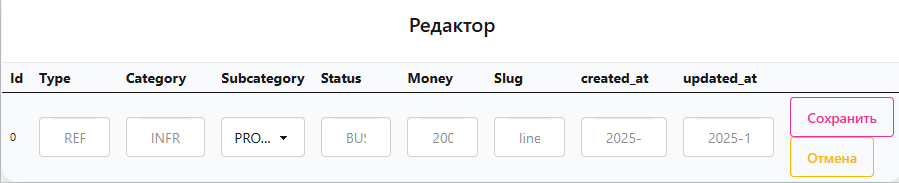
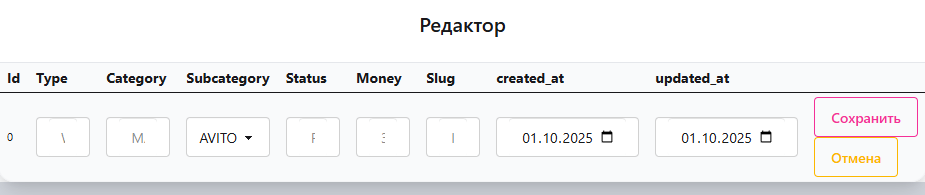
[master]: Settings component was updated

diff --git a/src/app/components/Settings/index.tsx b/src/app/components/Settings/index.tsx
@@ -1,23 +1,31 @@
 /**
  * src\app\components\Settings\index.tsx
  */
-import {JSX, useState } from 'react';
+import { format } from 'path';
+import {JSX, useEffect, useRef } from 'react';
 import Button from 'src/components/fields/Button';
 import Input from 'src/components/fields/InputEmpty';
 export function SettingsFC({...props}): JSX.Element {
     const {flow, type, category, subcategory, 
         status, money, slug, created_at, updated_at } = props.props;
-    const setSettings = props.usesetting;
+    // GET COMPOMEMTS OF FORMS & DATA
     const inputTypeField = () => <Input placholderText={type.content} />;
     const inputCategoryField = () => <Input placholderText={category.content} />;
     const inputStatusField = () => <Input placholderText={status.content} />;
     const inputMoneyField = () => <Input placholderText={money.content} />;
     const inputSlugField = () => <Input placholderText={slug.content} />;
-    const inputCreated_atField = () => <Input placholderText={created_at.content} />;
-    const inputUpdated_atField = () => <Input placholderText={updated_at.content} />;
-     
+    const inputCreated_atField = () => <Input typeName='date'  classes = 'created_at input input-neutral'  placholderText={created_at.content} />;
+    const inputUpdated_atField = () => <Input typeName='date' classes = 'updated_at input input-neutral' placholderText={updated_at.content} />;
     const buttonField = () => <Button contentButton={"Сохранить"} classes={"btn btn-outline btn-secondary"} classesDiv={''} />;
-    const buttonCansField = () => <Button contentButton={"Отмена"} classes={"btn btn-outline btn-warning"} classesDiv={''} />;
+    const buttonCansField = () => <Button contentButton={"Отмена"}  classes={"btn btn-outline btn-warning"} classesDiv={''} />;
+    useEffect(() =>{
+        // INSER THE DATE IN THE INPUTS
+        const created_atDate = new Date(created_at.content);
+        const updated_atDate = new Date(updated_at.content);
+        (document.getElementsByClassName("created_at")[0] as HTMLInputElement).valueAsDate=created_atDate;
+        (document.getElementsByClassName("updated_at")[0] as HTMLInputElement).valueAsDate = updated_atDate as unknown as  Date ;
+    });
+    
     return (
         <>        
             {/* row 1 */}
@@ -34,13 +42,12 @@ export function SettingsFC({...props}): JSX.Element {
                 <td data-name='subcategory'>
                     <select defaultValue="Subcategory" className=" select appearance-none" >
                         
-                            {subcategory.map((item: {id: string,  content: string}, index: number) => (
-                                <option key={index} data-subcategery={item.id} >{item.content}</option>
-                            ))                                                    
-                            }
-                        
-                        </select>
-                        
+                        {subcategory.map((item: {id: string,  content: string}, index: number) => (
+                            <option key={index} data-subcategery={item.id} >{item.content}</option>
+                        ))                                                    
+                        }
+                    
+                    </select>                  
                     
                 </td>
                 <td data-status={status.id}>

diff --git a/src/components/fields/InputEmpty.tsx b/src/components/fields/InputEmpty.tsx
@@ -10,11 +10,11 @@ interface InputProps {
 const Input: React.FC<InputProps> = ({ 
     typeName = 'text', 
     placholderText = 'Введите данные', 
-    classes = 'input input-neutral' 
+    classes = 'input input-neutral',
 }) => {
     return (
-        <label className="input validator join-item">
-            <input type={typeName} placeholder={placholderText} className={classes} />
+        <label className="input validator">
+            <input type={typeName} placeholder={placholderText}  className={classes} />
         </label>
     );
 };

diff --git a/README.md b/README.md
@@ -1,8 +1,12 @@
 ## Redux
-![redux](./img/redux.png)
+![redux](./img/redux.png)\
+Работает с мета-данными для страницы и данные которые передаём для редактирования.
 
-## Пуьликации
+## Публикации
 ![публикации](./img/publish.png)
+
+- Подкатегории содержат список , но в режиме - публикации, свой выбор сделать вы не сможете. Только при редактировании.
+- Редактировать - правая крайная ячейка с шестирёнкой.
 
 ## Редактор
 ![redactor](./img/redactor.png)
